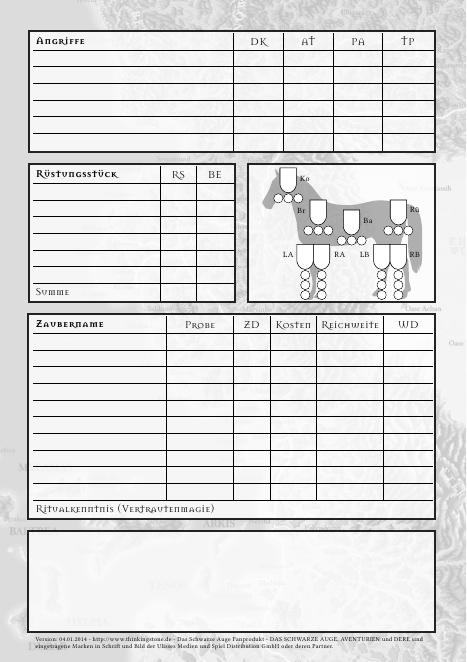
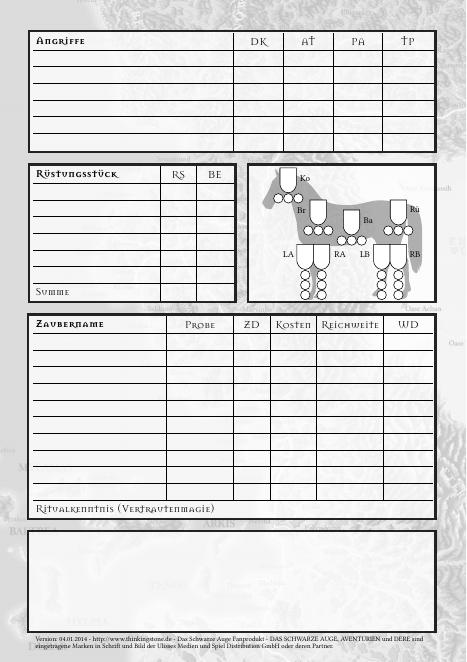
Creating site for tierdokumenta5, 1.0.3

diff --git a/tierdokumenta5/changes-report.html b/tierdokumenta5/changes-report.html
@@ -1,7 +1,7 @@
 
 <!DOCTYPE html>
 <!--
- Generated by Apache Maven Doxia at 2014-01-05
+ Generated by Apache Maven Doxia at 2014-12-30
  Rendered using Maven Reflow Skin 1.0.0 (http://andriusvelykis.github.com/reflow-maven-skin)
 -->
 <html  xml:lang="de" lang="de">
@@ -112,6 +112,7 @@
 					<ul id="toc" class="nav">
 						<li class="toplevel"><a href="#anderungen" title="Änderungen">Änderungen</a></li>
 						<li class="toplevel"><a href="#Release-Geschichte" title="Release-Geschichte">Release-Geschichte</a></li>
+						<li class="toplevel"><a href="#Release_103_-_30122014" title="Release 1.0.3 - 30.12.2014">Release 1.0.3 - 30.12.2014</a></li>
 						<li class="toplevel"><a href="#Release_102_-_05012014" title="Release 1.0.2 - 05.01.2014">Release 1.0.2 - 05.01.2014</a></li>
 						<li class="toplevel"><a href="#Release_101_-_05122013" title="Release 1.0.1 - 05.12.2013">Release 1.0.1 - 05.12.2013</a></li>
 						<li class="toplevel"><a href="#Release_100_-_12112013" title="Release 1.0.0 - 12.11.2013">Release 1.0.0 - 12.11.2013</a></li>
@@ -144,21 +145,26 @@
    </thead> 
    <tbody> 
     <tr class="b"> 
+     <td><a href="#a1.0.3">1.0.3</a></td> 
+     <td>30.12.2014</td> 
+     <td>Helden-Software 5.4.0</td> 
+    </tr> 
+    <tr class="a"> 
      <td><a href="#a1.0.2">1.0.2</a></td> 
      <td>05.01.2014</td> 
      <td>Helden-Software 5.3.1 und Zeilentrennung</td> 
     </tr> 
-    <tr class="a"> 
+    <tr class="b"> 
      <td><a href="#a1.0.1">1.0.1</a></td> 
      <td>05.12.2013</td> 
      <td>Layoutkorrekturen</td> 
     </tr> 
-    <tr class="b"> 
+    <tr class="a"> 
      <td><a href="#a1.0.0">1.0.0</a></td> 
      <td>12.11.2013</td> 
      <td>Helden-Software 5.2.7</td> 
     </tr> 
-    <tr class="a"> 
+    <tr class="b"> 
      <td><a href="#a2013-03-02">2013-03-02</a></td> 
      <td>02.03.2013</td> 
      <td>Helden-Software 5.2.6</td> 
@@ -166,6 +172,31 @@
    </tbody> 
   </table> 
   <p>RSS-Feed der letzten &Auml;nderungen:&nbsp;<a href="changes.rss"><img src="images/rss.png" alt="rss feed" title="rss feed" /></a></p> 
+ </div> 
+ <div class="section"> 
+  <h3 id="Release_103_-_30122014">Release 1.0.3 - 30.12.2014</h3> 
+  <a name="a1.0.3"></a> 
+  <table border="0" class="bodyTable table table-striped table-hover"> 
+   <thead> 
+    <tr class="a"> 
+     <th>Typ</th> 
+     <th>&Auml;nderungen</th> 
+     <th>Durch</th> 
+    </tr> 
+   </thead> 
+   <tbody> 
+    <tr class="b"> 
+     <td><i class="icon-plus"></i></td> 
+     <td>Getestet mit Helden-Software 5.4.0; nicht voll kompatibel zu fr&uuml;heren Versionen</td> 
+     <td><a href="team-list.html#mb">mb</a></td> 
+    </tr> 
+    <tr class="a"> 
+     <td><i class="icon-refresh"></i></td> 
+     <td>Korrektur f&uuml;r Tiere: Grund sind &Auml;nderungen der Schnittstelle in der Helden-Software 5.4.0</td> 
+     <td><a href="team-list.html#mb">mb</a></td> 
+    </tr> 
+   </tbody> 
+  </table> 
  </div> 
  <div class="section"> 
   <h3 id="Release_102_-_05012014">Release 1.0.2 - 05.01.2014</h3> 
@@ -379,7 +410,7 @@
 			<div class="span12">
 				<p class="pull-right"><a href="#">Back to top</a></p>
 				<p class="copyright">Copyright &copy;2014 <a href="http://www.thinkingstone.de">Michael Binder</a>. All Rights Reserved.</p>
-				<p class="version-date"><span class="projectVersion">Version: 1.0.2. </span><span class="publishDate">Zuletzt Publiziert: 2014-01-05. </span></p>
+				<p class="version-date"><span class="projectVersion">Version: 1.0.3. </span><span class="publishDate">Zuletzt Publiziert: 2014-12-30. </span></p>
 			</div>
 		</div>
 	</div>

diff --git a/tierdokumenta5/download.html b/tierdokumenta5/download.html
@@ -1,7 +1,7 @@
 
 <!DOCTYPE html>
 <!--
- Generated by Apache Maven Doxia at 2014-01-05
+ Generated by Apache Maven Doxia at 2014-12-30
  Rendered using Maven Reflow Skin 1.0.0 (http://andriusvelykis.github.com/reflow-maven-skin)
 -->
 <html  xml:lang="de" lang="de">
@@ -116,8 +116,8 @@
 <p>Alle Downloads liegen auf <a class="externalLink" href="https://bintray.com/thinkingstone/dsa-documents/tierdokumenta5">Bintray</a>.</p> 
 <div class="section"> 
  <h2 id="Aktuelle_Version">Aktuelle Version</h2> 
- <p>Aktuelle Version ist 1.0.2.</p> 
- <p><a class="btn btn-primary" href="http://dl.bintray.com/thinkingstone/dsa-documents/de/thinkingstone/dsa/tierdokumenta5/1.0.2/tierdokumenta5-1.0.2.zip">Download Version 1.0.2</a></p> 
+ <p>Aktuelle Version ist 1.0.3.</p> 
+ <p><a class="btn btn-primary" href="http://dl.bintray.com/thinkingstone/dsa-documents/de/thinkingstone/dsa/tierdokumenta5/1.0.3/tierdokumenta5-1.0.3.zip">Download Version 1.0.3</a></p> 
  <hr /> 
 </div> 
 <div class="section"> 
@@ -230,7 +230,7 @@
 			<div class="span12">
 				<p class="pull-right"><a href="#">Back to top</a></p>
 				<p class="copyright">Copyright &copy;2014 <a href="http://www.thinkingstone.de">Michael Binder</a>. All Rights Reserved.</p>
-				<p class="version-date"><span class="projectVersion">Version: 1.0.2. </span><span class="publishDate">Zuletzt Publiziert: 2014-01-05. </span></p>
+				<p class="version-date"><span class="projectVersion">Version: 1.0.3. </span><span class="publishDate">Zuletzt Publiziert: 2014-12-30. </span></p>
 			</div>
 		</div>
 	</div>

diff --git a/tierdokumenta5/install.html b/tierdokumenta5/install.html
@@ -1,7 +1,7 @@
 
 <!DOCTYPE html>
 <!--
- Generated by Apache Maven Doxia at 2014-01-05
+ Generated by Apache Maven Doxia at 2014-12-30
  Rendered using Maven Reflow Skin 1.0.0 (http://andriusvelykis.github.com/reflow-maven-skin)
 -->
 <html  xml:lang="de" lang="de">
@@ -129,7 +129,7 @@
  <h2 id="Voraussetzungen">Voraussetzungen</h2> 
  <p>Folgende Software und Plugins werden ben&ouml;tigt, wenn das Dokument zusammen mit der Helden-Software genutzt werden soll: </p> 
  <ul> 
-  <li><a class="externalLink" href="http://www.helden-software.de/">Helden-Software</a> (getestet mit Version 5.3.1)</li> 
+  <li><a class="externalLink" href="http://www.helden-software.de/">Helden-Software</a> (getestet mit Version 5.4.0)</li> 
   <li><a class="externalLink" href="http://wiki.helden-software.de/wiki/Erweiterungen/Heldenbogen">Heldenbogen-Plugin</a> (getestet mit Version 1.01)</li> 
  </ul> 
 </div> 
@@ -251,7 +251,7 @@
 			<div class="span12">
 				<p class="pull-right"><a href="#">Back to top</a></p>
 				<p class="copyright">Copyright &copy;2014 <a href="http://www.thinkingstone.de">Michael Binder</a>. All Rights Reserved.</p>
-				<p class="version-date"><span class="projectVersion">Version: 1.0.2. </span><span class="publishDate">Zuletzt Publiziert: 2014-01-05. </span></p>
+				<p class="version-date"><span class="projectVersion">Version: 1.0.3. </span><span class="publishDate">Zuletzt Publiziert: 2014-12-30. </span></p>
 			</div>
 		</div>
 	</div>

diff --git a/tierdokumenta5/team-list.html b/tierdokumenta5/team-list.html
@@ -1,7 +1,7 @@
 
 <!DOCTYPE html>
 <!--
- Generated by Apache Maven Doxia at 2014-01-05
+ Generated by Apache Maven Doxia at 2014-12-30
  Rendered using Maven Reflow Skin 1.0.0 (http://andriusvelykis.github.com/reflow-maven-skin)
 -->
 <html  xml:lang="de" lang="de">
@@ -278,7 +278,7 @@ window.onLoad = init();
 			<div class="span12">
 				<p class="pull-right"><a href="#">Back to top</a></p>
 				<p class="copyright">Copyright &copy;2014 <a href="http://www.thinkingstone.de">Michael Binder</a>. All Rights Reserved.</p>
-				<p class="version-date"><span class="projectVersion">Version: 1.0.2. </span><span class="publishDate">Zuletzt Publiziert: 2014-01-05. </span></p>
+				<p class="version-date"><span class="projectVersion">Version: 1.0.3. </span><span class="publishDate">Zuletzt Publiziert: 2014-12-30. </span></p>
 			</div>
 		</div>
 	</div>

diff --git a/tierdokumenta5/advancedusage.html b/tierdokumenta5/advancedusage.html
@@ -1,7 +1,7 @@
 
 <!DOCTYPE html>
 <!--
- Generated by Apache Maven Doxia at 2014-01-05
+ Generated by Apache Maven Doxia at 2014-12-30
  Rendered using Maven Reflow Skin 1.0.0 (http://andriusvelykis.github.com/reflow-maven-skin)
 -->
 <html  xml:lang="de" lang="de">
@@ -256,7 +256,7 @@
 			<div class="span12">
 				<p class="pull-right"><a href="#">Back to top</a></p>
 				<p class="copyright">Copyright &copy;2014 <a href="http://www.thinkingstone.de">Michael Binder</a>. All Rights Reserved.</p>
-				<p class="version-date"><span class="projectVersion">Version: 1.0.2. </span><span class="publishDate">Zuletzt Publiziert: 2014-01-05. </span></p>
+				<p class="version-date"><span class="projectVersion">Version: 1.0.3. </span><span class="publishDate">Zuletzt Publiziert: 2014-12-30. </span></p>
 			</div>
 		</div>
 	</div>

diff --git a/tierdokumenta5/index.html b/tierdokumenta5/index.html
@@ -1,7 +1,7 @@
 
 <!DOCTYPE html>
 <!--
- Generated by Apache Maven Doxia at 2014-01-05
+ Generated by Apache Maven Doxia at 2014-12-30
  Rendered using Maven Reflow Skin 1.0.0 (http://andriusvelykis.github.com/reflow-maven-skin)
 -->
 <html  xml:lang="de" lang="de">
@@ -273,7 +273,7 @@
 			<div class="span12">
 				<p class="pull-right"><a href="#">Back to top</a></p>
 				<p class="copyright">Copyright &copy;2014 <a href="http://www.thinkingstone.de">Michael Binder</a>. All Rights Reserved.</p>
-				<p class="version-date"><span class="projectVersion">Version: 1.0.2. </span><span class="publishDate">Zuletzt Publiziert: 2014-01-05. </span></p>
+				<p class="version-date"><span class="projectVersion">Version: 1.0.3. </span><span class="publishDate">Zuletzt Publiziert: 2014-12-30. </span></p>
 			</div>
 		</div>
 	</div>

diff --git a/tierdokumenta5/knownproblems.html b/tierdokumenta5/knownproblems.html
@@ -1,7 +1,7 @@
 
 <!DOCTYPE html>
 <!--
- Generated by Apache Maven Doxia at 2014-01-05
+ Generated by Apache Maven Doxia at 2014-12-30
  Rendered using Maven Reflow Skin 1.0.0 (http://andriusvelykis.github.com/reflow-maven-skin)
 -->
 <html  xml:lang="de" lang="de">
@@ -234,7 +234,7 @@
 			<div class="span12">
 				<p class="pull-right"><a href="#">Back to top</a></p>
 				<p class="copyright">Copyright &copy;2014 <a href="http://www.thinkingstone.de">Michael Binder</a>. All Rights Reserved.</p>
-				<p class="version-date"><span class="projectVersion">Version: 1.0.2. </span><span class="publishDate">Zuletzt Publiziert: 2014-01-05. </span></p>
+				<p class="version-date"><span class="projectVersion">Version: 1.0.3. </span><span class="publishDate">Zuletzt Publiziert: 2014-12-30. </span></p>
 			</div>
 		</div>
 	</div>

diff --git a/tierdokumenta5/license.html b/tierdokumenta5/license.html
@@ -1,7 +1,7 @@
 
 <!DOCTYPE html>
 <!--
- Generated by Apache Maven Doxia at 2014-01-05
+ Generated by Apache Maven Doxia at 2014-12-30
  Rendered using Maven Reflow Skin 1.0.0 (http://andriusvelykis.github.com/reflow-maven-skin)
 -->
 <html  xml:lang="de" lang="de">
@@ -240,7 +240,7 @@
 			<div class="span12">
 				<p class="pull-right"><a href="#">Back to top</a></p>
 				<p class="copyright">Copyright &copy;2014 <a href="http://www.thinkingstone.de">Michael Binder</a>. All Rights Reserved.</p>
-				<p class="version-date"><span class="projectVersion">Version: 1.0.2. </span><span class="publishDate">Zuletzt Publiziert: 2014-01-05. </span></p>
+				<p class="version-date"><span class="projectVersion">Version: 1.0.3. </span><span class="publishDate">Zuletzt Publiziert: 2014-12-30. </span></p>
 			</div>
 		</div>
 	</div>

diff --git a/tierdokumenta5/project-info.html b/tierdokumenta5/project-info.html
@@ -1,7 +1,7 @@
 
 <!DOCTYPE html>
 <!--
- Generated by Apache Maven Doxia at 2014-01-05
+ Generated by Apache Maven Doxia at 2014-12-30
  Rendered using Maven Reflow Skin 1.0.0 (http://andriusvelykis.github.com/reflow-maven-skin)
 -->
 <html  xml:lang="de" lang="de">
@@ -250,7 +250,7 @@
 			<div class="span12">
 				<p class="pull-right"><a href="#">Back to top</a></p>
 				<p class="copyright">Copyright &copy;2014 <a href="http://www.thinkingstone.de">Michael Binder</a>. All Rights Reserved.</p>
-				<p class="version-date"><span class="projectVersion">Version: 1.0.2. </span><span class="publishDate">Zuletzt Publiziert: 2014-01-05. </span></p>
+				<p class="version-date"><span class="projectVersion">Version: 1.0.3. </span><span class="publishDate">Zuletzt Publiziert: 2014-12-30. </span></p>
 			</div>
 		</div>
 	</div>

diff --git a/tierdokumenta5/project-reports.html b/tierdokumenta5/project-reports.html
@@ -1,7 +1,7 @@
 
 <!DOCTYPE html>
 <!--
- Generated by Apache Maven Doxia at 2014-01-05
+ Generated by Apache Maven Doxia at 2014-12-30
  Rendered using Maven Reflow Skin 1.0.0 (http://andriusvelykis.github.com/reflow-maven-skin)
 -->
 <html  xml:lang="de" lang="de">
@@ -250,7 +250,7 @@
 			<div class="span12">
 				<p class="pull-right"><a href="#">Back to top</a></p>
 				<p class="copyright">Copyright &copy;2014 <a href="http://www.thinkingstone.de">Michael Binder</a>. All Rights Reserved.</p>
-				<p class="version-date"><span class="projectVersion">Version: 1.0.2. </span><span class="publishDate">Zuletzt Publiziert: 2014-01-05. </span></p>
+				<p class="version-date"><span class="projectVersion">Version: 1.0.3. </span><span class="publishDate">Zuletzt Publiziert: 2014-12-30. </span></p>
 			</div>
 		</div>
 	</div>
